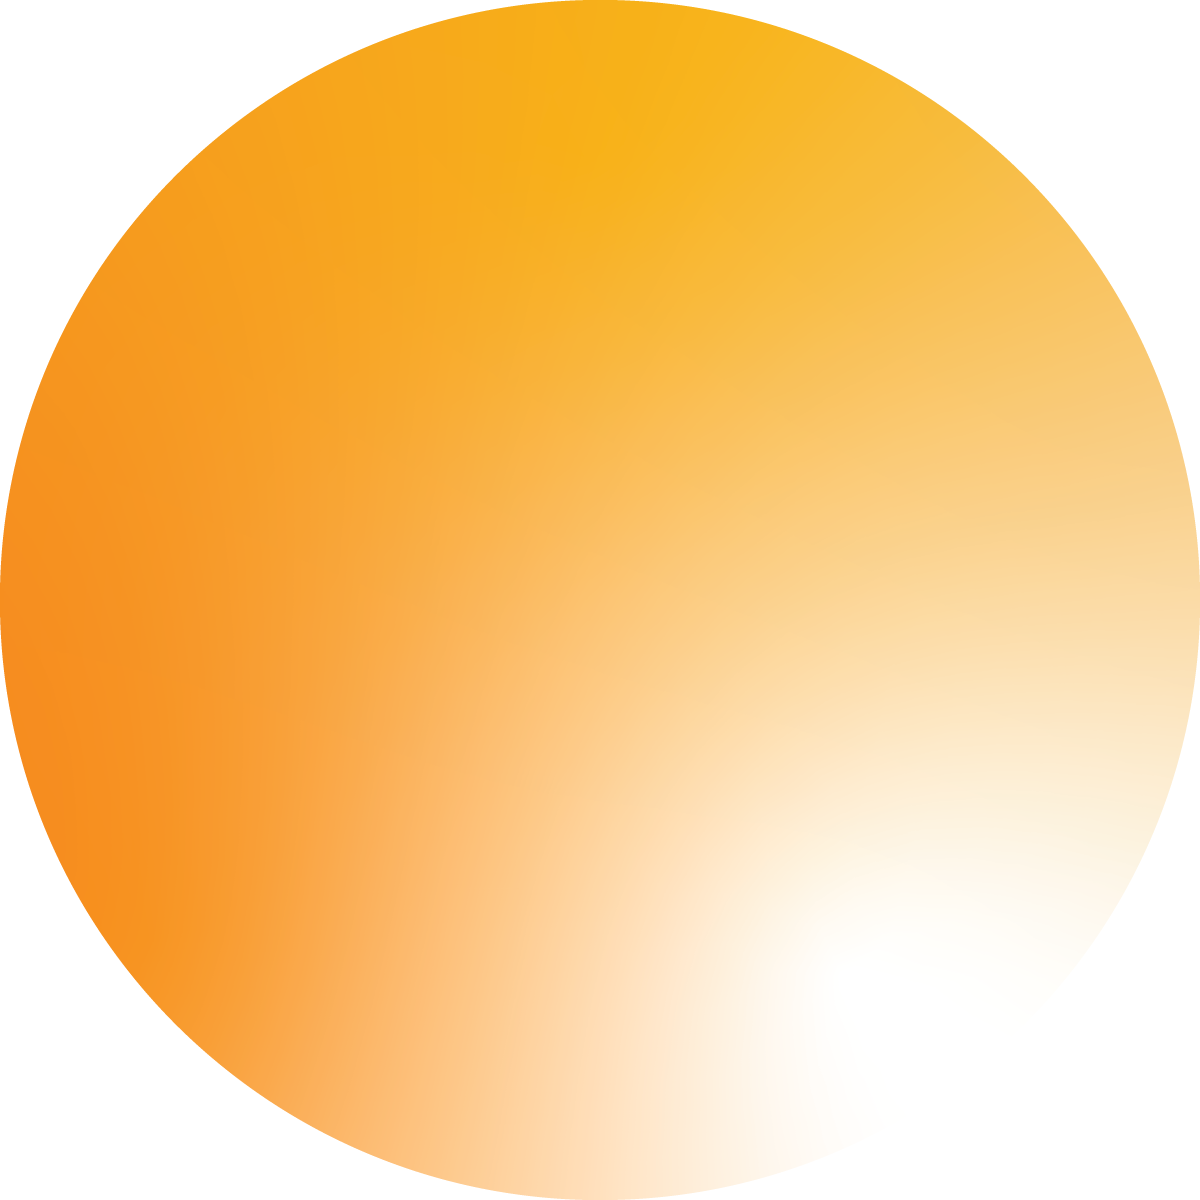
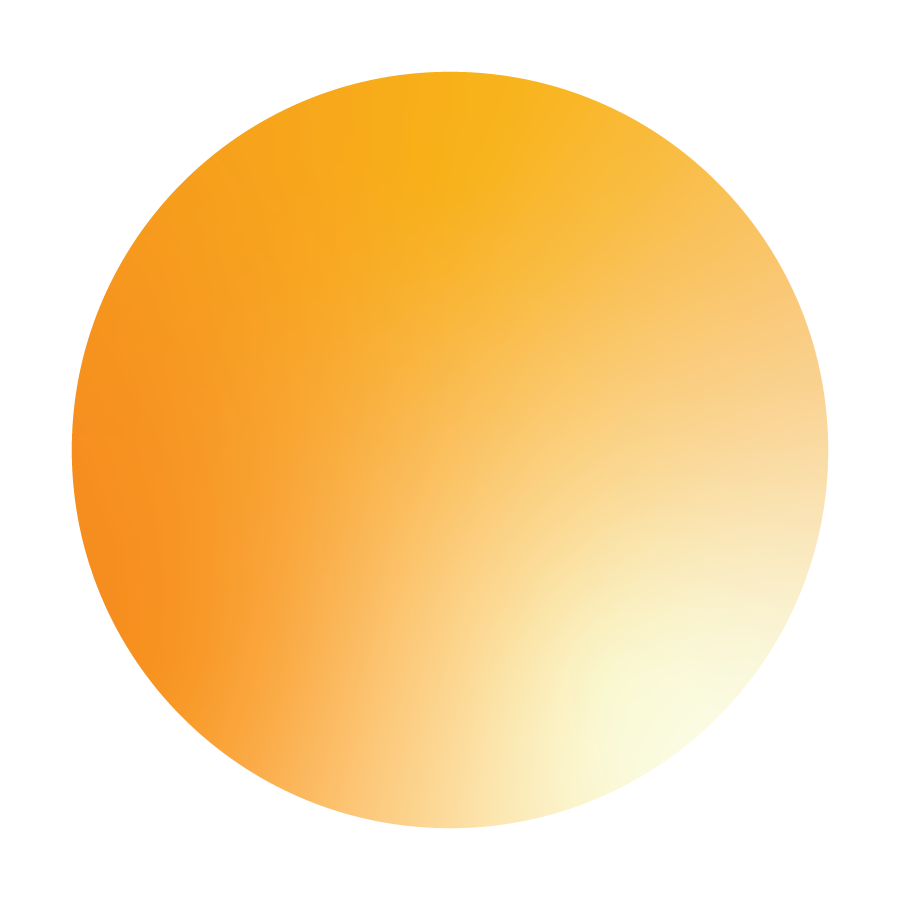
update orbs

Changed region(s): [[0.0, 0.0, 1.0, 1.0]]

diff --git a/_data/majorsComputed.js b/_data/majorsComputed.js
@@ -15,7 +15,7 @@ computed.forEach(major => {
       major.color = '/imgs/orbs/ill.png'
       break
     case 'wv8b6Q5MsnqrMmtEmXPE':
-      major.color = '/imgs/orbs/gd.png'
+      major.color = '/imgs/orbs/cagd.png'
       break
     default:
       break
